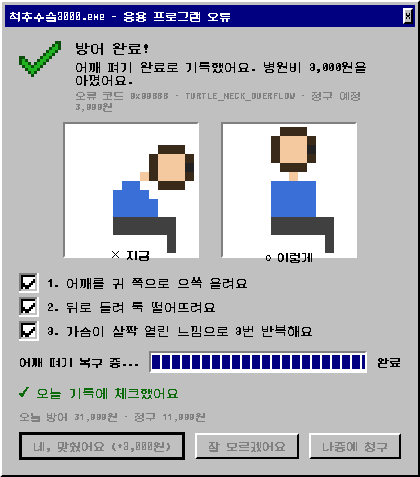
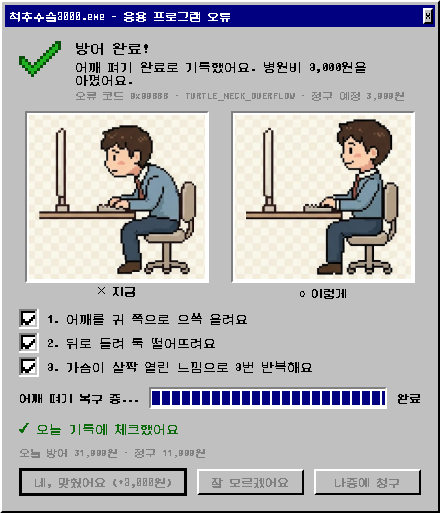
Use the 척추수술 pixel characters as default posture images
- Crop female/male bad (forward head) and good (upright) figures into assets/img/default
- Image lookup: per-exercise image → default character → placeholder sprite
- Alternate characters per alert, or fix with POSTURE_CHARACTER=f|m
- Larger image panels, refreshed screenshots

diff --git a/src/posture_alert/ui/popup.py b/src/posture_alert/ui/popup.py
@@ -19,7 +19,7 @@ from .retro import (BAD_POSE, CHECK_ICON, CHECK_PAL, CHECKBOX_OFF, CHECKBOX_ON,
                     CHECKBOX_PAL, DARK, ERROR_ICON, ERROR_PAL, GOOD_POSE, NAVY,
                     POSE_PAL, WARNING, WARNING_PAL, retro_font, sprite)
 
-IMG_SIZE = 128
+IMG_W, IMG_H = 176, 164  # 그림 칸 크기 (기본 캐릭터 그림 비율 400:372)
 EXE = f"{APP_NAME}.exe"
 ERROR_CODES = {
     "posture": "TURTLE_NECK_OVERFLOW",
@@ -149,12 +149,20 @@ def _button(text: str, primary: bool = False) -> QPushButton:
     return b
 
 
-def pose_image(assets: Path, exercise_id: str, which: str) -> QPixmap:
-    """assets/img/{id}_{good|bad}.png 가 있으면 쓰고, 없으면 임시 픽셀 그림."""
-    f = assets / "img" / f"{exercise_id}_{which}.png"
-    if f.exists():
-        return QPixmap(str(f)).scaled(IMG_SIZE, IMG_SIZE, Qt.AspectRatioMode.KeepAspectRatio,
-                                      Qt.TransformationMode.FastTransformation)
+CHARACTERS = ("f", "m")  # assets/img/default/{f|m}_{bad|good}.png
+
+
+def pose_image(assets: Path, exercise_id: str, which: str, character: str = "f") -> QPixmap:
+    """그림 고르는 순서:
+    1) assets/img/{동작id}_{good|bad}.png   (동작별 전용 그림)
+    2) assets/img/default/{f|m}_{good|bad}.png (기본 캐릭터: 거북목 ✕ / 바른 자세 ○)
+    3) 임시 픽셀 막대 인형
+    """
+    for f in (assets / "img" / f"{exercise_id}_{which}.png",
+              assets / "img" / "default" / f"{character}_{which}.png"):
+        if f.exists():
+            return QPixmap(str(f)).scaled(IMG_W, IMG_H, Qt.AspectRatioMode.KeepAspectRatio,
+                                          Qt.TransformationMode.SmoothTransformation)
     return sprite(GOOD_POSE if which == "good" else BAD_POSE, POSE_PAL, 9)
 
 
@@ -165,11 +173,11 @@ def image_panel(pm: QPixmap, caption: str) -> QWidget:
     v.setSpacing(4)
     frame = QFrame()
     frame.setObjectName("sunken")
-    frame.setFixedSize(IMG_SIZE + 8, IMG_SIZE + 8)
+    frame.setFixedSize(IMG_W + 8, IMG_H + 8)
     img = QLabel(frame)
     img.setPixmap(pm)
     img.setAlignment(Qt.AlignmentFlag.AlignCenter)
-    img.setGeometry(4, 4, IMG_SIZE, IMG_SIZE)
+    img.setGeometry(4, 4, IMG_W, IMG_H)
     cap = _label(caption, 12, bold=True)
     cap.setAlignment(Qt.AlignmentFlag.AlignCenter)
     v.addWidget(frame)
@@ -183,10 +191,11 @@ class GuideCard(_RetroWindow):
     want_alternative = Signal()   # 일어나기 알림에서 "지금 못 일어나요"
 
     def __init__(self, msg: Message, ex: Exercise, kind: str, assets: Path,
-                 receipt: Receipt | None = None, can_defer_stand: bool = False):
+                 receipt: Receipt | None = None, can_defer_stand: bool = False,
+                 character: str = "f"):
         super().__init__(f"{EXE} - 응용 프로그램 오류")
         self.ex = ex
-        self.setFixedWidth(420)
+        self.setFixedWidth(440)
         self.title_bar.closed.connect(lambda: self._answer("skip"))
 
         price = price_of(kind)
@@ -197,9 +206,9 @@ class GuideCard(_RetroWindow):
 
         imgs = QHBoxLayout()
         imgs.addStretch()
-        imgs.addWidget(image_panel(pose_image(assets, ex.id, "bad"), "✕ 지금"))
+        imgs.addWidget(image_panel(pose_image(assets, ex.id, "bad", character), "✕ 지금"))
         imgs.addSpacing(12)
-        imgs.addWidget(image_panel(pose_image(assets, ex.id, "good"), "○ 이렇게"))
+        imgs.addWidget(image_panel(pose_image(assets, ex.id, "good", character), "○ 이렇게"))
         imgs.addStretch()
         self.body.addLayout(imgs)
 

diff --git a/src/posture_alert/main.py b/src/posture_alert/main.py
@@ -21,7 +21,7 @@ from .engine.content import (APP_NAME, APP_SUBTITLE, ASSETS, load_exercises,
 from .engine.scheduler import Kind, Scheduler
 from .platform import get_monitor
 from .storage.repo import Repo
-from .ui.popup import GhostError, GuideCard, LightToast, ReceiptWindow
+from .ui.popup import CHARACTERS, GhostError, GuideCard, LightToast, ReceiptWindow
 from .ui.retro import ERROR_ICON, ERROR_PAL, STYLESHEET, load_fonts, sprite
 
 
@@ -55,6 +55,9 @@ class App:
         self.receipt_win = None
         self.ignored_streak = 0   # 연속으로 무시한 횟수 → 에러창이 그만큼 쌓인다
         self._seq = 0
+        # 기본 캐릭터: POSTURE_CHARACTER=f|m 으로 고정, 없으면 알림마다 번갈아
+        self.character_pref = os.environ.get("POSTURE_CHARACTER")
+        self._char_i = 0
 
         self.tray = QSystemTrayIcon(QIcon(sprite(ERROR_ICON, ERROR_PAL, 2)))
         self.tray.setToolTip(f"{APP_NAME} - {APP_SUBTITLE}")
@@ -81,6 +84,13 @@ class App:
         if kind and self.card is None:  # 이미 떠 있으면 겹쳐 띄우지 않음
             self.show(kind)
 
+    @property
+    def character(self) -> str:
+        if self.character_pref in CHARACTERS:
+            return self.character_pref
+        self._char_i += 1
+        return CHARACTERS[self._char_i % len(CHARACTERS)]
+
     def receipt(self):
         return build_receipt(self.repo.events_today())
 
@@ -94,7 +104,8 @@ class App:
             card = LightToast(msg, ex)
         else:
             card = GuideCard(msg, ex, kind.value, self.assets, receipt=self.receipt(),
-                             can_defer_stand=(kind is Kind.STAND and not alt))
+                             can_defer_stand=(kind is Kind.STAND and not alt),
+                             character=self.character)
         # POST: 알림을 띄우는 순간 기록 생성 (result='shown', completed=0)
         event_id = self.repo.create_event(kind.value, ex.id)
         if kind is not Kind.EYE:
